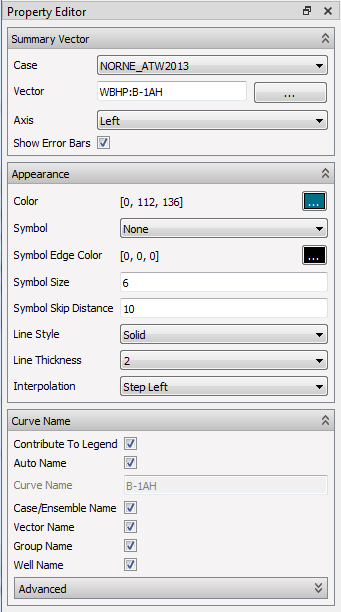
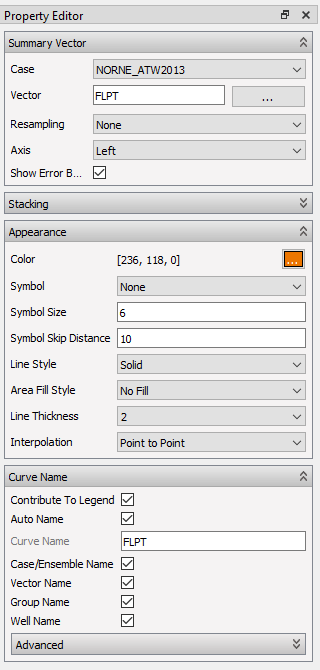
Resample option for summary/ensemble curves, c.f. issue #7344

diff --git a/content/plot-window/SummaryPlots.md b/content/plot-window/SummaryPlots.md
@@ -185,17 +185,18 @@ Having selected a Summary Curve, its properties are shown by the **Property Edit
 
 As seen, the Property Editor organizes the available options into the following groups:
 
-- **Summary Vector** -- Options to select case, vector to plot, axis specification, and error bars.
+- **Summary Vector** -- Options to select case, vector to plot, resampling, axis specification, and error bars.
+- **Stacking** - Options to control stacking of curves optionally with phase colors.
 - **Appearance** -- Options to control curve color, symbols, line style etc.
 - **Curve Name** -- Controls how the curve is labeled in the legend.
 - **Advanced** -- Specification of additional options.
 
 ### Summary Vector
-
 This group of options is used to define summary vector data that the curve will display. 
 
 - **Case** -- Selects the imported Summary or Observed Data case to use as source.
 - **Vector** -- Displays the acronym of the selected vector.
+- **Resampling** - Option to sample curve data per day, week, month, quarter, half year, year, or decade.
 - **Axis** -- Controls whether the curve is to be associated with the left or right Y-Axis. 
 
 Selection of vector is performed using a vector acronym or pressing the button to the right. 
@@ -206,9 +207,7 @@ Switching the Y-Axis for several curves in one go can be done using the right-cl
 {{% /notice %}}
 
 
-
 ### Curve Name 
-
 The user can control the curve name used in the plot legend by the following options:
 
 - **Contribute To Legend** -- This option controls whether the curve will be visible in the plot legend. A curve with an empty name will be removed from legend. 

diff --git a/content/plot-window/EnsemblePlotting.md b/content/plot-window/EnsemblePlotting.md
@@ -26,6 +26,12 @@ Ensembles are plotted in the summary plot the same way as ordinary summary curve
 
 Stepping of data source for ensemble curves is described in [Summary Plot Source Stepping]({{< relref "summarysourcestepping" >}})
 
+
+### Resampling
+Resampling of curves is possibly by selecting the actual curve(s) listed by the *Ensemble Curve Sets* item in **Plot Project Tree** and using the **Resampling** feature of **Property Editor**.
+
+![]({{< relref "" >}}images/plot-window/EnsemblePlottingResampling.png)
+
 ### Statistics curves
 If the number of curves in a curve set is sufficient, ResInsight will calculate statistics for the curve set. The following statistics curves may be displayed:
 
